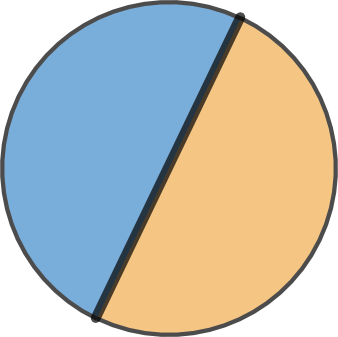
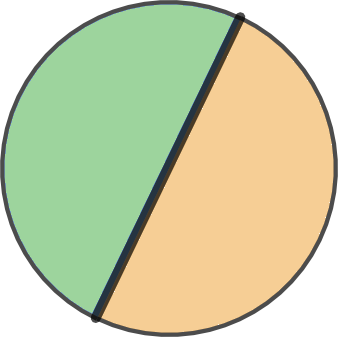
On the court / bench / home lists with colored titles. Fix #31

diff --git a/teams/templates/teams/team_detail.html b/teams/templates/teams/team_detail.html
@@ -31,18 +31,16 @@
     {% verbatim %}
     <div v-for="list in lists">
         <div class="col-md-4 list-group">
-            <a class="list-group-item active">{{ list.name }}</a>
-            <div v-for="player in list.players | orderBy 'name'">
-                <a class="{{ list.class }} list-group-item clearfix">
-                    {{ player.name }}
-                    <span v-for="button in list.buttons">
-                        <p v-on:click="moveTo(player, list.id, button.newState)"
-                           class="{{ button.class }} btn btn-xs pull-right margins">
-                          {{ button.text }}
-                        </p>
-                    </span>
-                </a>
-            </div>
+            <a class="list-group-item active {{ list.color }}">{{ list.name }}</a>
+            <a v-for="player in list.players | orderBy 'name'" class="list-group-item clearfix">
+                {{ player.name }}
+                <span v-for="button in list.buttons">
+                    <p v-on:click="moveTo(player, list.id, button.newState)"
+                       class="{{ button.class }} btn btn-xs pull-right margins">
+                      {{ button.text }}
+                    </p>
+                </span>
+            </a>
         </div>
     </div>
     {% endverbatim %}

diff --git a/teams/static/js/change_player_state.js b/teams/static/js/change_player_state.js
@@ -26,6 +26,7 @@ new Vue({
       {
         id: 'on_the_court',
         name: 'On the court',
+        color: 'green',
         players: starting_players.on_the_court,
         buttons: [
           { class: 'btn-danger', newState: 'gone_home', text: 'Gone home' },
@@ -35,7 +36,7 @@ new Vue({
       {
         id: 'on_the_bench',
         name: 'On the bench',
-        class: 'list-group-item-warning',
+        color: 'orange',
         players: starting_players.on_the_bench,
         buttons: [
           { class: 'btn-danger', newState: 'gone_home', text: 'Gone home' },
@@ -45,7 +46,7 @@ new Vue({
       {
         id: 'gone_home',
         name: 'Gone home',
-        class: 'list-group-item-danger',
+        color: 'red',
         players: starting_players.gone_home,
         buttons: [
           { class: 'btn-warning', newState: 'on_the_bench', text: 'Move to bench' },

diff --git a/teams/static/css/style.css b/teams/static/css/style.css
@@ -27,3 +27,19 @@
 #players {
     margin-left: 0px;
 }
+
+/* list headers, based on bootstrap buttons colors */
+.list-group-item.active.green {
+    background-color: #5CB85C;
+    border-color: #4CAE4C;
+}
+
+.list-group-item.active.orange {
+    background-color: #F0AD4E;
+    border-color: #EEA236;
+}
+
+.list-group-item.active.red {
+    background-color: #D9534F;
+    border-color: #D43F3A;
+}
